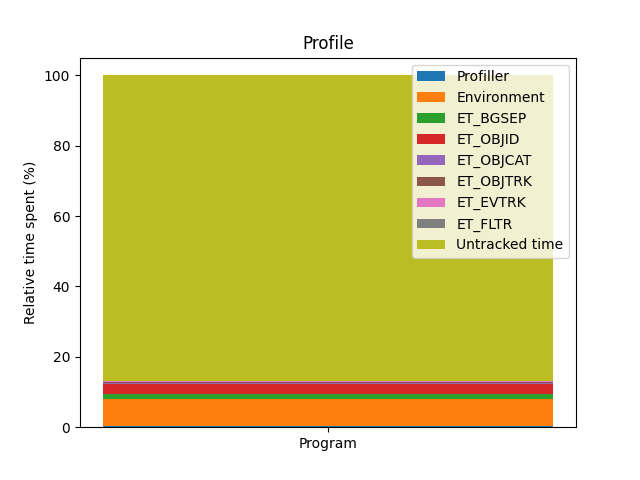
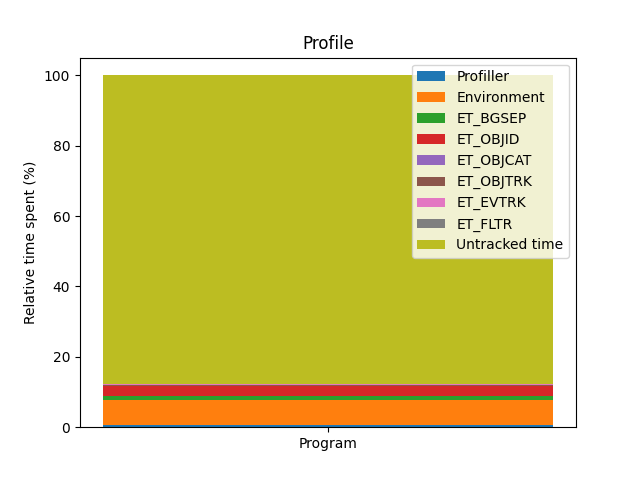
Observation creation

Changed region(s): [[0.1562, 0.7812, 0.875, 0.8438]]

diff --git a/pyepisodetracker/env.py b/pyepisodetracker/env.py
@@ -1,6 +1,6 @@
 from gymnasium import Wrapper, Env
 from peasyprofiller.profiller import profiller as pprof
-from pyepisodetracker.episode_tracker import EpisodeTracker
+from pyepisodetracker.episode_tracker import EpisodeTracker, Event, MovementEvent
 import numpy as np
 
 class AtariWrapper(Wrapper):
@@ -48,20 +48,64 @@ class AtariWrapper(Wrapper):
         return self.slice_obs(obs), reward, terminated, info, done
     
 class EpisodeTrackerWrapper(AtariWrapper):
-    def __init__(self, env: Env, frames_per_action: int, relevant_cat_count: int=2, verbose: bool=True):
+    def __init__(self, env: Env, frames_per_action: int, max_events_per_cat: np.array, relevant_cat_count: int=2, verbose: bool=True):
         super().__init__(env, frames_per_action, verbose)
 
+        self.max_events_per_cat = max_events_per_cat
         self.episode_tracker = EpisodeTracker(np.array([np.array([142, 142, 142]), np.array([170, 170, 170]), np.array([214, 214, 214])]), relevant_cat_count)
         self.to_render = None
-    
+
+
+    def create_state(self, event: MovementEvent, episode_tracker: EpisodeTracker):
+        pos = event.current_pos
+        vel = episode_tracker.get_event_vel(event)
+        
+        return np.array([pos.x / 182.0, pos.y / 152.0, vel.x / 7.75, vel.y / 7.75])
+        
+
 
     def step(self, action_data):
         obs, reward, terminated, info, done = super().step(action_data)
-        events = self.episode_tracker.process_frame(obs)
+        render, events, categories = self.episode_tracker.process_frame(obs)
 
-        self.to_render = events[0]
+        self.to_render = render
+
+        # Order categories
+        for i in range(1, len(categories)):
+            key = categories[i]
+            j = i - 1
+
+            while j >= 0 and key.size.area() > categories[j].size.area():
+                categories[j + 1] = categories[j]
+                j -= 1
+            categories[j + 1] = key
+        cat_max_pos = {}
+        cat_first_pos = {}
+        cat_pos = {}
+        count = 0
+        for i in range(len(categories)):
+            cat_max_pos[categories[i]] = self.max_events_per_cat[i]
+            cat_pos[categories[i]] = 0
+            cat_first_pos[categories[i]] = count
+            count += self.max_events_per_cat[i]
+
+        # Create observation
+        obs = np.zeros((count, 4))
+        for event in events:
+            if event.category != "MOVEMENT":
+                continue
+
+            cat = event.obj_category
+            if cat_pos[cat] >= cat_max_pos[cat]:
+                continue
+
+            obs[cat_first_pos[cat] + cat_pos[cat], :] = self.create_state(event, self.episode_tracker)
+            
+            cat_pos[cat] += 1
+
+            
         
-        return events[1], reward, terminated, info, done
+        return obs, reward, terminated, info, done
     
 
     def reset(self, seed=None):

diff --git a/pyepisodetracker/episode_tracker.py b/pyepisodetracker/episode_tracker.py
@@ -9,6 +9,7 @@ ORIENTATION_DIF_TOLERANCE = 0.2
 AREA_DIF_TOLERANCE = 16
 
 SPEED_DIF_TOLERANCE = 6
+MAX_SPEED = 50
 
 
 class Vector2():
@@ -117,7 +118,7 @@ class MovementEvent(Event):
         self.initial_timestep = initial_timestep
 
 
-    def get_vel(self, current_timestep: int):
+    def get_vel(self, current_timestep: int) -> Vector2:
         return (self.current_pos - self.initial_pos) / float(current_timestep - self.initial_timestep)
 
 
@@ -153,7 +154,7 @@ class EpisodeTracker():
         objs = self.object_categorization(objs)
         transitions = self.object_tracking(objs)
         events = self.event_tracking(objs, transitions)
-        filtered_events = self.filtering(events)
+        filtered_events, valid_categories = self.filtering(events)
 
         self.tracked_objects = objs
         self.tracked_events = events
@@ -176,7 +177,11 @@ class EpisodeTracker():
                     cv2.circle(separated_bg, (event.current_pos.x, event.current_pos.y), 4, (255, 0, 0), 2)
                 else:
                     cv2.arrowedLine(separated_bg, (event.initial_pos.x, event.initial_pos.y), (event.current_pos.x, event.current_pos.y), (0, 0, 255), 2)
-        return separated_bg, filtered_events
+        return separated_bg, filtered_events, valid_categories
+
+
+    def get_event_vel(self, event: MovementEvent) -> Vector2:
+        return event.get_vel(self.timestep)
 
 
     def background_separation(self, data: np.array, threshold=1) -> np.array:
@@ -377,19 +382,19 @@ class EpisodeTracker():
                 j -= 1
             categories[j + 1] = key
 
-        # Delete all non relevant categories
+        # Delete all non relevant categories and overly speedy movement events
         filtered_events = events.copy()
         valid_categories = categories[:self.relevant_cat_count]
         pos = 0
         while pos < len(filtered_events):
-            if not filtered_events[pos].obj_category in valid_categories:
+            if not filtered_events[pos].obj_category in valid_categories or (filtered_events[pos].category == "MOVEMENT" and filtered_events[pos].get_vel(self.timestep).manhat_length() > MAX_SPEED): 
                 filtered_events.pop(pos)
             else:
                 pos += 1
 
         pprof.stop("ET_FLTR")
 
-        return filtered_events
+        return filtered_events, valid_categories
 
     
     def finish_episode(self) -> None:

diff --git a/pyepisodetracker/main.py b/pyepisodetracker/main.py
@@ -3,6 +3,7 @@ import gymnasium as gym
 from gymnasium.utils.play import play
 from keymap import KEYMAP
 import cv2
+import numpy as np
 from peasyprofiller.profiller import profiller as pprof
 
 class Monitor():
@@ -26,6 +27,6 @@ class Monitor():
 ###############
 cv2.imwrite("test.png", gym.make("ALE/Freeway-v5", render_mode="rgb_array").reset()[0])
 
-env = EpisodeTrackerWrapper(gym.make("ALE/Freeway-v5", render_mode="rgb_array"), 2)
+env = EpisodeTrackerWrapper(gym.make("ALE/Freeway-v5", render_mode="rgb_array"), 2, np.array([10, 2]))
 monitor = Monitor()
 play(env, callback=monitor.callback, keys_to_action=KEYMAP)
